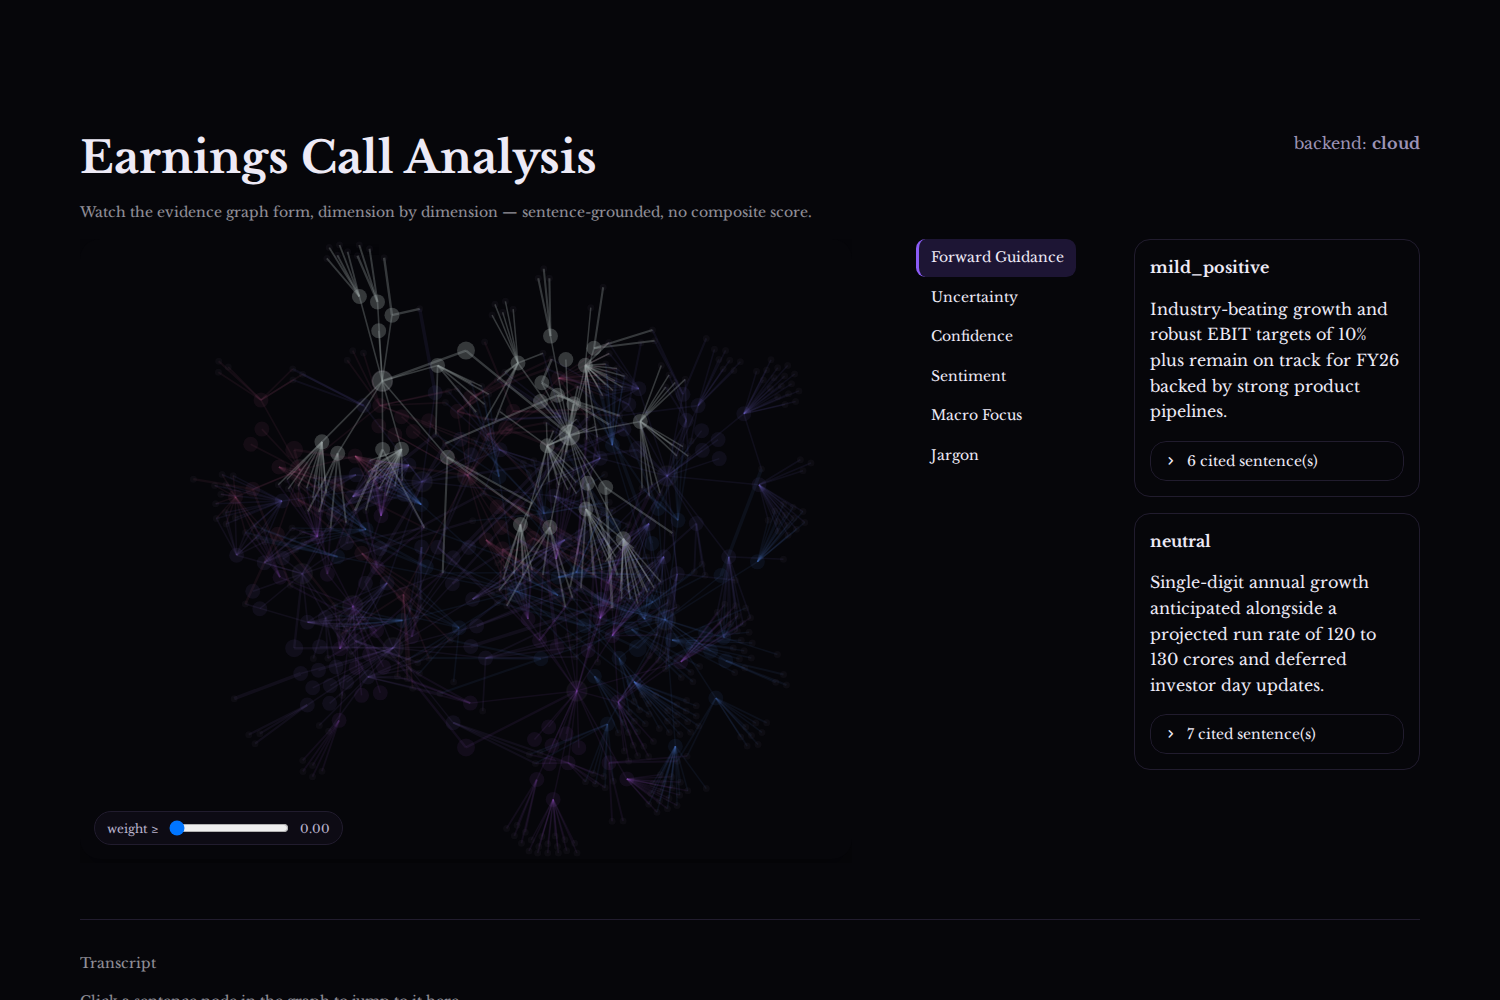
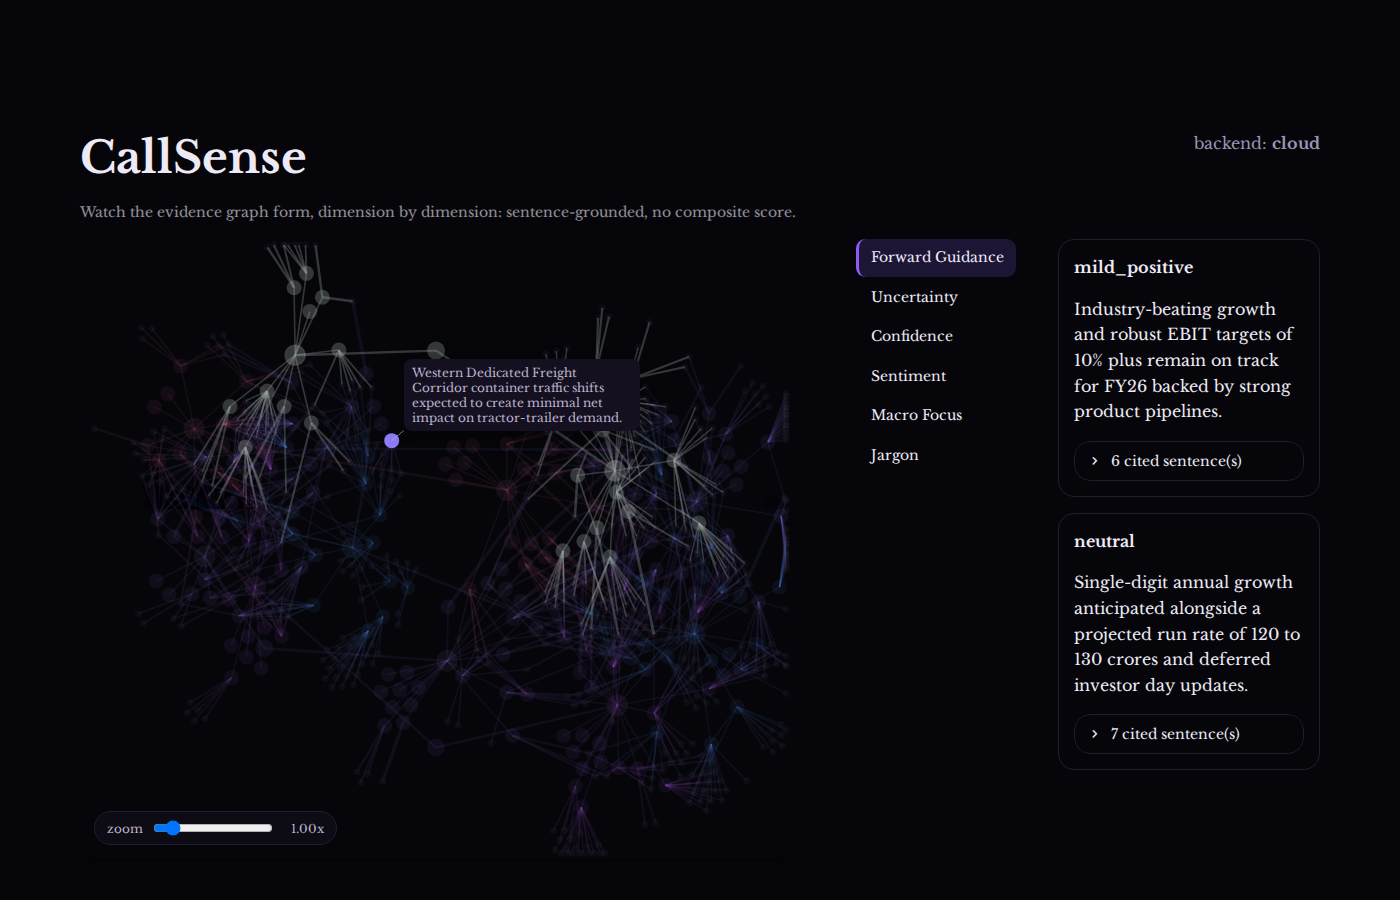
Update README and screenshots for wizard screen and zoom slider
Rewrites the weight-slider and live-streaming-graph sections to
describe the current progress-log analysis screen and the zoom
control, adds a note on the save-run download, and retakes both
screenshots against the current UI. Also fixes the now-stale input
screen subtitle in app.py.

diff --git a/app.py b/app.py
@@ -466,7 +466,7 @@ def main() -> None:
     title_col, backend_col = st.columns([4, 1])
     with title_col:
         st.title("CallSense")
-        st.caption("Watch the evidence graph form, dimension by dimension: sentence-grounded, no composite score.")
+        st.caption("Explore the evidence graph, dimension by dimension: sentence-grounded, no composite score.")
     with backend_col:
         st.markdown(f"<div style='text-align:right;padding-top:1.2rem;color:#9C93B5;'>backend: <b>{backend}</b></div>", unsafe_allow_html=True)
 

diff --git a/README.md b/README.md
@@ -2,7 +2,7 @@
 
 Analyzes earnings call transcripts across six linguistic dimensions drawn from academic research on analyst communication, and shows the reasoning as a live, explorable graph instead of a black-box score. Every conclusion cites specific, located sentences from the transcript. Nothing is asserted without a traceable, weighted path back to the source text.
 
-![Analysis view: the evidence graph, dimension tabs, weight filter, and transcript jump](docs/screenshots/analysis.png)
+![Analysis view: the evidence graph, dimension tabs, zoom control, and transcript jump](docs/screenshots/analysis.png)
 
 ## What it does
 
@@ -11,7 +11,7 @@ A transcript goes in (pasted text or a PDF upload), and the pipeline:
 1. Splits it into sentences, each with a real offset into the source text.
 2. Judges every sentence, in small groups, along six dimensions at once: **Forward Guidance, Uncertainty, Confidence, Sentiment, Macro Focus, Jargon**.
 3. Recursively summarizes and re-judges those groups' outputs, round after round, until each dimension converges to a handful of final, labeled conclusions.
-4. Renders the whole thing as a live graph that can be zoomed, panned, dragged, filtered by relevance, and clicked into, down to the exact sentence a conclusion is built from.
+4. Renders the whole thing as an explorable graph that can be zoomed, panned, dragged, and clicked into, down to the exact sentence a conclusion is built from.
 
 There is no single composite score. An earlier version of this project averaged the six dimensions into one weighted number. Those weights were never validated against anything, and averaging LLM-classified labels manufactures a precision that isn't there. This version keeps every dimension's conclusions separate, grounded, and cited.
 
@@ -38,24 +38,24 @@ Every call scores its own inputs' relevance (0-3, normalized to sum to 1 among s
 
 Everything is written to a SQLite (WAL-mode) graph store as it's produced (`persistence/graph_store.py`), nodes and edges, level by level, so a live viewer can read the graph while the pipeline is still building it, and an interrupted run resumes from the last completed level instead of restarting.
 
-### Weight, without the propagation artifact
-
-Every edge carries a real relevance weight from the model's own scoring. The obvious way to ask "how much does this sentence matter" is to chain those weights from a final conclusion back down to its sentences. That number shrinks with every hop and sibling a sentence's path happens to pass through, though, which is a tree-shape artifact rather than a relevance signal. `analysis/attribution.py`'s `compute_node_weights` instead scores only source sentences, using each one's own single-hop edge weight, peak-normalized across the dimension. Composites and terminal conclusions get no score of their own. The UI derives their visibility bottom-up: a composite stays lit as long as any sentence beneath it clears the weight threshold, and whole branches where nothing did go dark, which is the intended behavior of a relevance filter, not a bug.
-
 ### The graph UI
 
 The graph is a real bidirectional Streamlit component (`ui/graph_component.py`, `ui/graph_frontend/index.html`: plain D3 plus a hand-rolled Streamlit component protocol, no build tooling), not a redraw-on-every-poll `st.components.v1.html` blast. That distinction is what makes the rest of it possible:
 
-- **Streams in incrementally.** New nodes and edges get merged into the same running force simulation as levels complete. Nothing already on screen gets rebuilt or repositioned.
+- **Mounts once, fully formed.** Analysis itself runs behind a plain progress screen (see below); the graph component only mounts after the run completes, already holding every node and edge, so there's no half-built layout to reason about or jank to hide.
 - **Dimension focus is a pure restyle.** Selecting a dimension (vertical tabs, left of the theme cards) dims everything else to near-invisible and dulls the selected dimension's own resting color. Hovering a node lights it up along with its first-order neighbors in that dimension, tracing structure without ever touching the underlying simulation.
 - **A synthetic per-dimension hub** (no LLM, purely structural) links every terminal conclusion for a dimension, pulling a dimension's final themes visibly together instead of relying on a soft anchor force alone.
-- **A weight slider filters continuously**, client-side, driven by the `input` event, no Streamlit rerun involved, hiding source sentences below a relevance threshold and letting composite visibility fall out bottom-up as described above.
+- **A zoom slider mirrors the D3 zoom behavior both ways**: dragging it zooms the graph, and wheel or drag zooming on the canvas updates the slider, no Streamlit rerun involved either direction.
 - **Clicking a source sentence** jumps to and highlights its exact span in a transcript panel underneath, auto-scrolled into view.
 - Interactive throughout: zoom, pan, drag any node.
 
 ### Deterministic attribution for citations
 
-Separately from the weight-filter score, `compute_attribution` chains every round's relevance weights together (a weighted breadth-first walk from each terminal down to its leaves) to compute exactly how much each sentence explains that specific conclusion: a real, computable share, not just "cited or not." That's what powers the ranked evidence list under each theme card.
+Every edge carries a real relevance weight from the model's own scoring. `analysis/attribution.py`'s `compute_attribution` chains those weights together across every round (a weighted breadth-first walk from each terminal down to its leaves) to compute exactly how much each sentence explains a given conclusion: a real, computable share, not just "cited or not." That's what powers the ranked evidence list under each theme card.
+
+### Analysis screen: a progress log, not a half-built graph
+
+An earlier version streamed the graph live, mid-build, updating the force simulation every second as new levels landed. It looked good in a demo but was fragile in practice: node positions kept jumping as new evidence arrived, and there was nothing gained from watching it half-finished. The analysis screen now shows a plain progress bar and a growing log of what's completed ("Level 2 composed", and so on) until the run is done, then hands off to the fully-formed graph in one step. Once a run completes, its underlying SQLite graph store can be downloaded directly ("Save this run"), the same file the fixture-replay path below reads from.
 
 ## Project structure
 
@@ -121,11 +121,11 @@ Prefer `.venv/bin/python -m <tool>` over `.venv/bin/<tool>` directly. A venv's c
 .venv/bin/python -m streamlit run app.py
 ```
 
-Paste transcript text or upload a PDF, click Analyze, then watch the graph build. Once complete, pick a dimension from the left-side tabs, drag the weight slider to filter by relevance, and click any source sentence to jump to it in the transcript below.
+Paste transcript text or upload a PDF, click Analyze, and watch the progress log while it runs. Once complete, pick a dimension from the left-side tabs, use the zoom slider or your scroll wheel to navigate the graph, and click any source sentence to jump to it in the transcript below. A "Save this run" button downloads the completed run's graph store to replay or archive later.
 
 ### Trying it without spending API calls
 
-The input screen has a **"Test with sample data (no LLM call)"** button as an alternative to analyzing a real transcript. It replays `fixtures/sample_run.sqlite`, a real, production-size run already completed against `fixtures/sample_transcript.txt`, streaming it into the graph exactly like a live run (same pacing, same progressive reveal). This lets the whole UI get exercised repeatedly without touching a real backend or its rate limit. Regenerate that fixture (after a pipeline change, for example) with:
+The input screen has a **"Test with sample data (no LLM call)"** button as an alternative to analyzing a real transcript. It replays `fixtures/sample_run.sqlite`, a real, production-size run already completed against `fixtures/sample_transcript.txt`, at the same pace a live run would take. This lets the whole UI get exercised repeatedly without touching a real backend or its rate limit. Regenerate that fixture (after a pipeline change, for example) with:
 
 ```bash
 .venv/bin/python scripts/generate_ui_fixture.py
@@ -139,6 +139,6 @@ That script does make real calls against the configured backend. It's the one ti
 .venv/bin/python -m pytest tests/
 ```
 
-All tests are pure: no network or live model required. They cover sentence-split offset correctness (including window overlap), the graph store's read/write/resumability behavior, the compact-prompt parser's recovery from malformed model output, and the attribution/weight math (single-level weights, multi-level chains, multi-parent convergence, and the source-only weight scoring).
+All tests are pure: no network or live model required. They cover sentence-split offset correctness (including window overlap), the graph store's read/write/resumability behavior, the compact-prompt parser's recovery from malformed model output, and the attribution math (single-level weights, multi-level chains, and multi-parent convergence).
 
 ![Input view](docs/screenshots/input.png)
